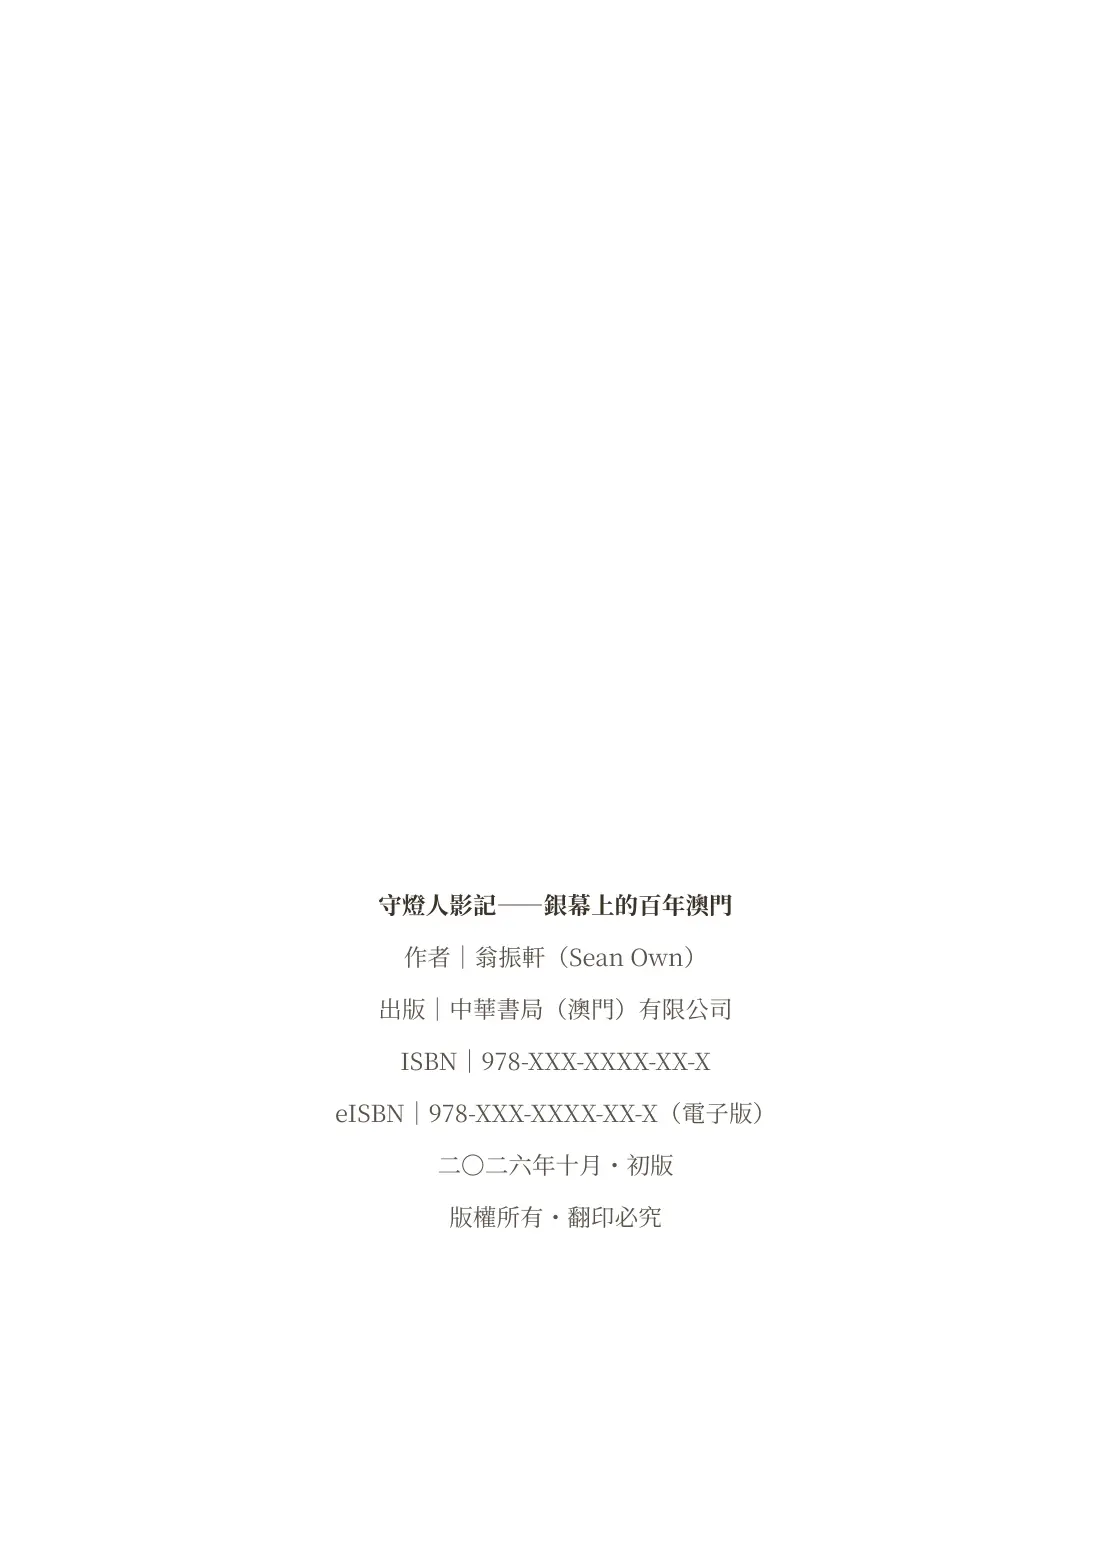
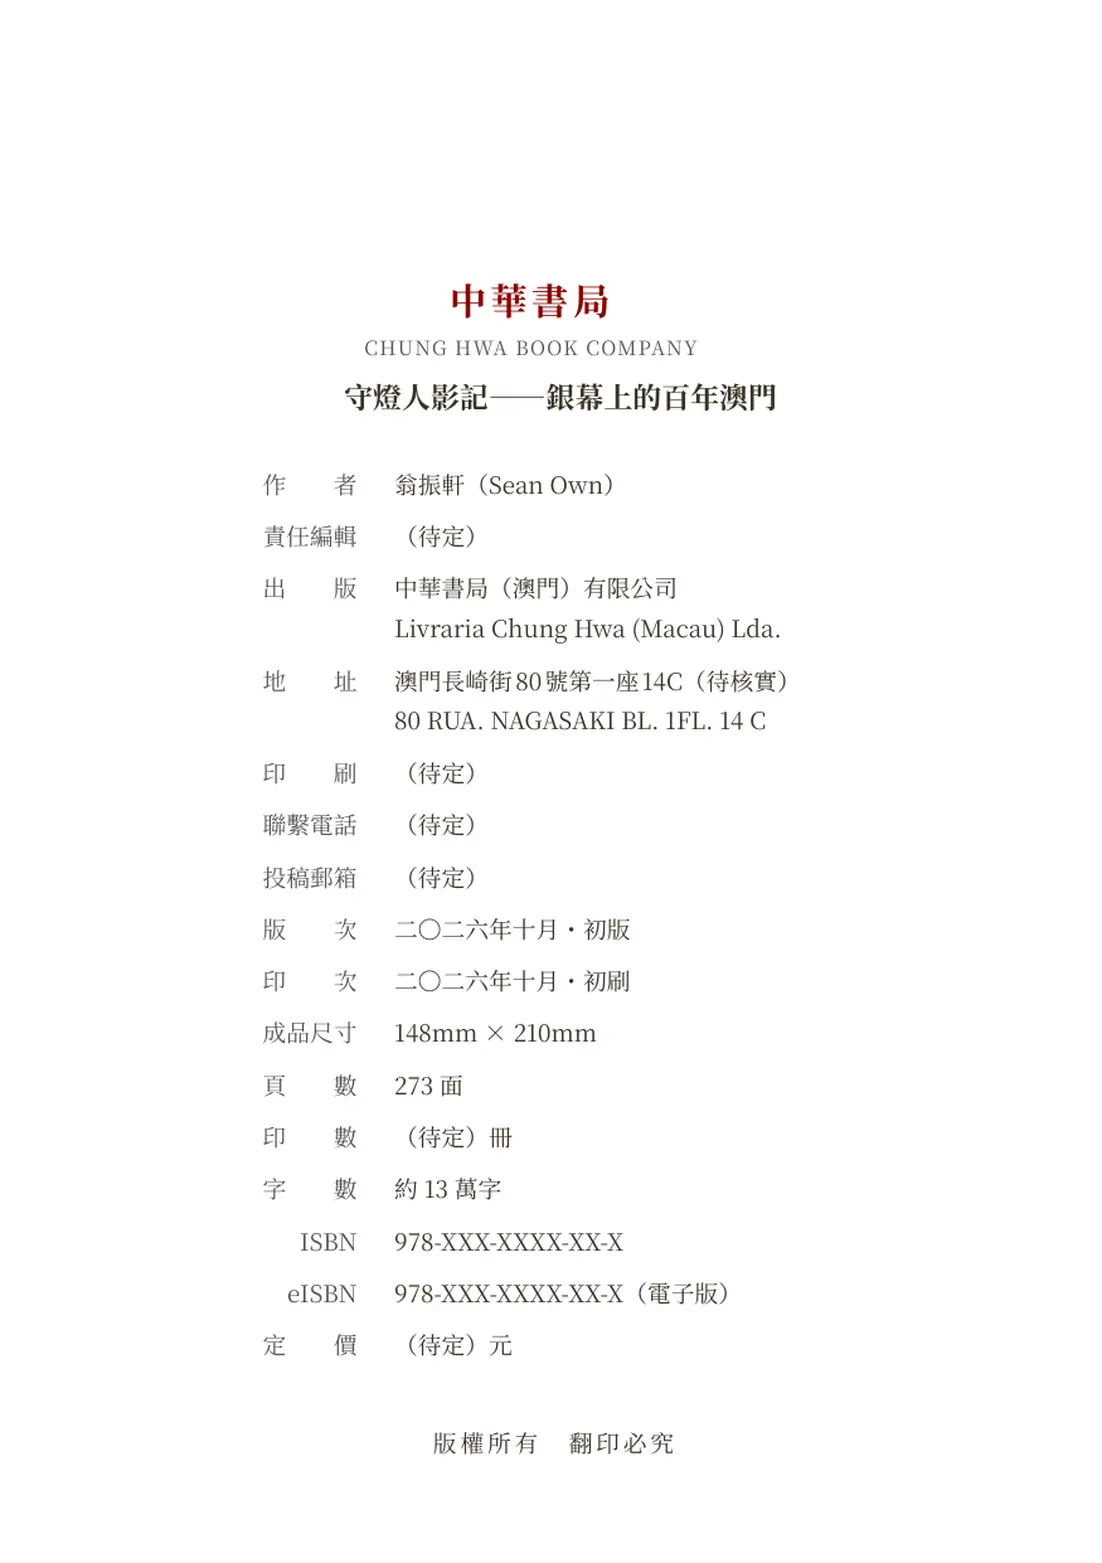
feat(book): 版權頁換新版（補齊責任編輯／地址／印數／字數／定價）
替換 p273 版權頁：
- 舊版只有 6 行（書名／作者／出版／ISBN／版次／版權）
- 新版補齊完整出版資訊 15 項：責任編輯、地址中英雙行、印刷、
  聯繫電話、投稿郵箱、版次、印次、成品尺寸、頁數 273 面、
  印數、字數約 13 萬字、ISBN/eISBN、定價

新增 tools/_replace_book_page.py：
單頁替換工具，自動把任意解析度的來源圖縮放回全書統一規格
（1102x1563、q=72 WebP），並同步寫入網站 assets 與來源素材目錄
H:\桌面\影評書\守燈人影記完成稿\pages_webp\。
以後換任何單頁都用這支，不會讓那一頁解析度與其它頁不一致。

新增單頁快取版本覆寫（reader.pageVersions）：
- 過去改一頁就得 bump 全書 version，讀者重開書會重抓 274 頁（約 29MB）
- 現在 pageSrc() 先查 pageVersions[頁碼]，只有該頁帶新版本參數
- 本次只 bust p273（?v=20261007e），其餘 273 頁沿用舊快取

實測：p273 載入 src 带 v=20261007e、naturalWidth=1102，與全書一致；
末組 p274（右）與 p272/273（左＝版權頁）對開正確。

diff --git a/book/shou-deng-ren-ying-ji/index.html b/book/shou-deng-ren-ying-ji/index.html
@@ -493,7 +493,11 @@ function renderRelated(){
    所以每一組對開是：**右＝偶數頁、左＝奇數頁，左邊比右邊大 1**。
    例：右 p28（辣警霸王花2 海報）／左 p29 → 右 p30／左 p31 → …… */
 function pageSrc(n){
-  var v = D.reader.version || "";
+  /* 單頁版本覆寫（pageVersions）：改版某頁時只重抓那一頁，
+     不必 bump 全書 version 讓讀者重抓 274 頁（约 29MB）。
+     例：{"273":"?v=20261007e"} → 版權頁換新版，其餘頁沿用舊快取 */
+  var v = (D.reader.pageVersions && D.reader.pageVersions[String(n)])
+          || D.reader.version || "";
   if (v && v.charAt(0) !== "?") v = "?" + v;   // 避免缺少 ? 導致檔名被污染
   return D.reader.pageBase + pad3(n) + ".webp" + v;
 }

diff --git a/tools/_replace_book_page.py b/tools/_replace_book_page.py
@@ -1,0 +1,57 @@
+# -*- coding: utf-8 -*-
+"""替換《守燈人影記》某一頁的 WebP（保持全書解析度／品質一致）
+
+用法: python _replace_book_page.py <頁碼> <來源圖> [--pdf <PDF 路徑> --pdf-page <頁碼>]
+
+為什麼要這支：
+  網站翻閱器的 274 張 WebP 是統一規格（1102×1563、q=72）。
+  軒哥新給的版權頁是 150dpi PNG（875×1241），比例一致但解析度不同，
+  直接改會讓那一頁在翻頁時看起來比其它頁糊／大，所以統一縮放回全書規格。
+
+同步處理兩處：
+  1) assets/book/sy-deng-ren/pages/pNNN.webp   ← 網站翻閱器用
+  2) H:\\桌面\\影評書\\守燈人影記完成稿\\pages_webp\\pNNN.webp ← 來源素材目錄
+"""
+import os
+import sys
+from PIL import Image
+
+# 全書統一規格（由 tools/_render_book_pages.py 產生）
+TARGET_W = 1102
+Q = 72
+
+REPO = r"C:\Users\user\WorkBuddy\Seanown.org"
+PAGES_WEBP = os.path.join(REPO, "assets", "book", "sy-deng-ren", "pages")
+SRC_PAGES = r"H:\桌面\影評書\守燈人影記完成稿\pages_webp"
+
+
+def main():
+    if len(sys.argv) < 3:
+        print(__doc__)
+        sys.exit(1)
+
+    pageno = int(sys.argv[1])
+    src = sys.argv[2]
+
+    im = Image.open(src).convert("RGB")
+    sw, sh = im.size
+    # 等比縮放到全書寬度（版權頁是整頁文字稿，不會有裁切風險）
+    if sw != TARGET_W:
+        th = round(sh * TARGET_W / sw)
+        im = im.resize((TARGET_W, th), Image.LANCZOS)
+
+    out_name = "p%03d.webp" % pageno
+    targets = [os.path.join(PAGES_WEBP, out_name),
+               os.path.join(SRC_PAGES, out_name)]
+
+    for p in targets:
+        if not os.path.isdir(os.path.dirname(p)):
+            print("  [skip] 目錄不存在：%s" % os.path.dirname(p))
+            continue
+        im.save(p, "WEBP", quality=Q, method=4)
+        kb = os.path.getsize(p) / 1024
+        print("  [ok] %s  %.1f KB  %dx%d" % (p, kb, im.size[0], im.size[1]))
+
+
+if __name__ == "__main__":
+    main()
